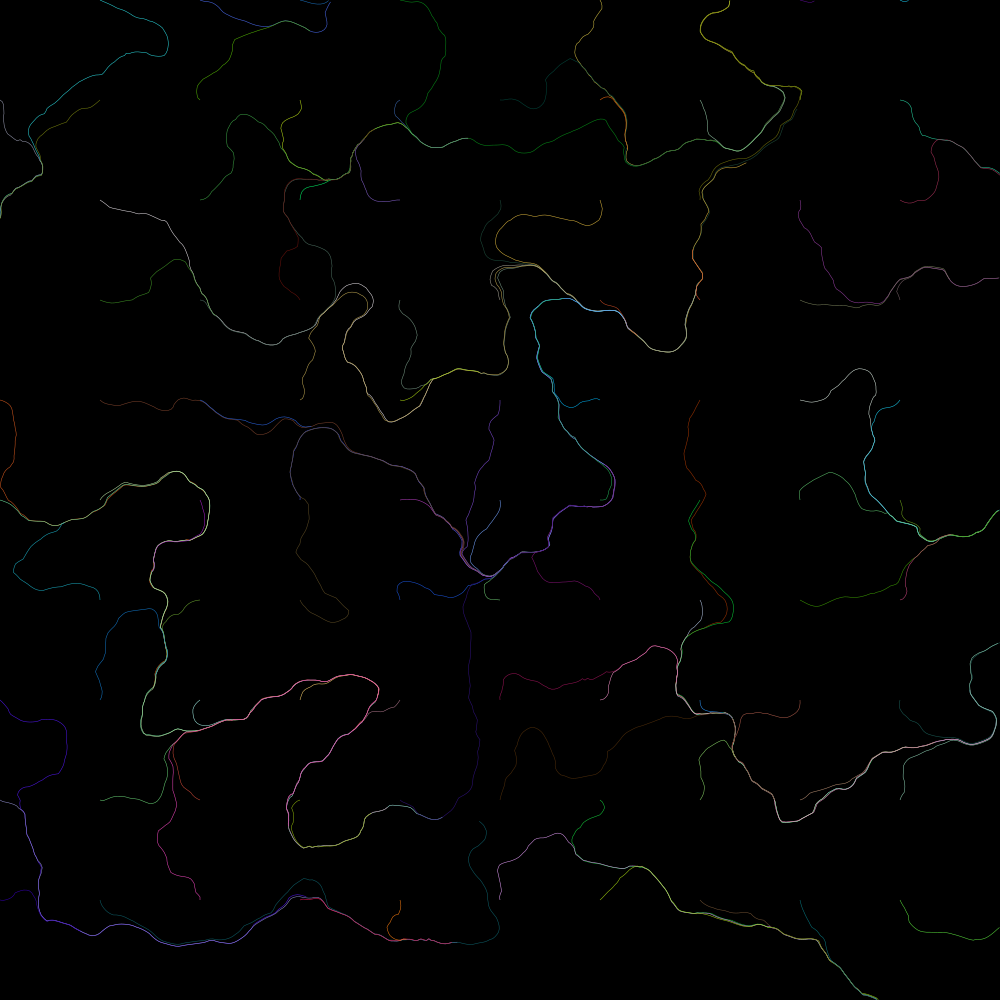
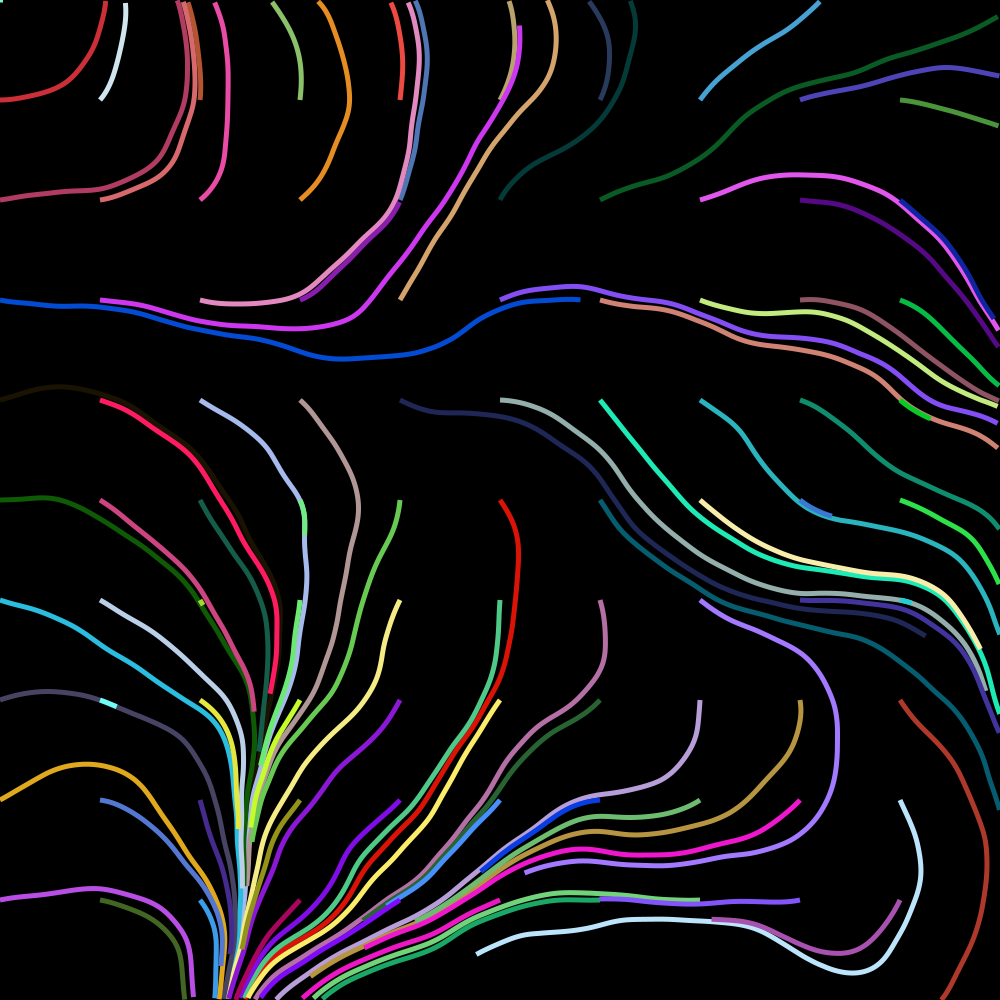
chore: remove accidently added test file

diff --git a/src/lines/draw.py b/src/lines/draw.py
@@ -100,15 +100,14 @@ def draw_sparse_flow_field(
         spatial_grid = None
 
     pos = Vec2(0, 0)
-    x_step = 1 / configuration.NUM_LINES_X
-    y_step = 1 / configuration.NUM_LINES_Y
+    x_step = 1 / configuration.NUM_SPARSE_LINES_X
+    y_step = 1 / configuration.NUM_SPARSE_LINES_Y
     # for _ in tqdm(range(configuration.NUM_LINES_Y), desc="Rows"):
-    for _ in range(configuration.NUM_LINES_Y):
+    for _ in range(configuration.NUM_SPARSE_LINES_Y):
         pos.x = 0
         # for _ in tqdm(range(configuration.NUM_LINES_X), desc="Particles", leave=False):
-        for _ in range(configuration.NUM_LINES_X):
+        for _ in range(configuration.NUM_SPARSE_LINES_X):
             # color = configuration.line.color
-            # print(f"Drawing line from: {pos}")
             # PERF: Add multiprocessing for faster render times
             draw_line(
                 ctx,

diff --git a/src/main.py b/src/main.py
@@ -58,6 +58,7 @@ def main() -> None:
 
     draw_flow_field(ctx, grid, start_method="sparse")
 
+    # Supersampling; scale down the image.
     final_surface = cairo.ImageSurface(
         cairo.FORMAT_ARGB32, configuration.WIDTH, configuration.HEIGHT
     )
@@ -69,6 +70,8 @@ def main() -> None:
     final_ctx.paint()
 
     final_surface.write_to_png("flow-field.png")
+
+    # TODO: Post processing effects
 
 
 if __name__ == "__main__":

diff --git a/src/configuration.py b/src/configuration.py
@@ -11,17 +11,17 @@ BACKGROUND_COLOR = Vec3(0.0, 0.0, 0.0)
 NUM_COLS = 150
 NUM_ROWS = 150
 NUM_OCTAVES = 6
-FREQUENCY = 0.05
+FREQUENCY = 0.005
 NUM_PARTITION_ROW = 100
 NUM_PARTITION_COL = 100
-NUM_LINES_X = 10
-NUM_LINES_Y = 10
+NUM_SPARSE_LINES_X = 10
+NUM_SPARSE_LINES_Y = 10
 
 
 @final
 @dataclass
 class Line:
-    width: float = 0.0005
+    width: float = 0.005
     color: Vec3 = Vec3(1.0, 1.0, 1.0)
     step_size: float = 0.003
 
